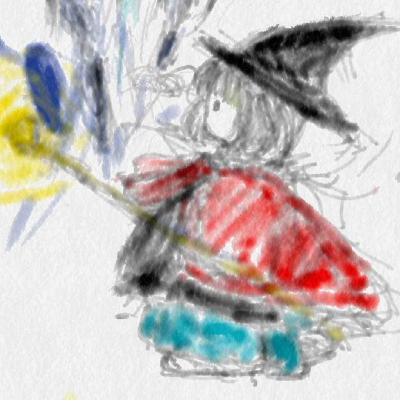
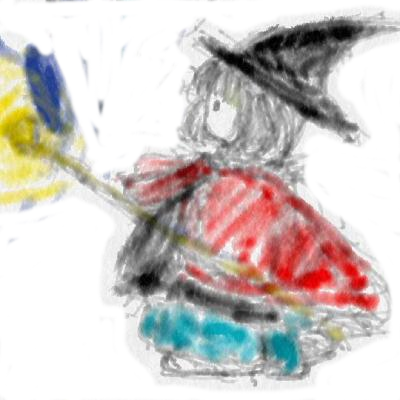
..

diff --git a/gl_texture/test.c b/gl_texture/test.c
@@ -54,6 +54,10 @@ void _onInit() {
   printf("## onInit\r\n");
 
   glEnable(GL_DEPTH_TEST);
+
+  //glEnable(GL_ALPHA_TEST);
+  glEnable(GL_BLEND);
+  glBlendFunc(GL_SRC_ALPHA, GL_ONE_MINUS_SRC_ALPHA);
   glViewport(0, 0, width, height);
   glClearColor(1.0, 0.7, 0.7, 1.0);//rgba
   glClear(GL_COLOR_BUFFER_BIT|GL_DEPTH_BUFFER_BIT);
@@ -66,7 +70,7 @@ void _onInit() {
     "uniform sampler2D texture;\n"
     "varying vec2 textureCoord;\n"
     "void main() {\n"
-    "  gl_FragColor = texture2D(texture, textureCoord);\n"
+    "  gl_FragColor = texture2D(texture, textureCoord)* vec4(1.0,1.0,1.0,1.0);\n"
 //    "  gl_FragColor = vec4(1.0,1.0,1.0,1.0);\n"
     "}\n");
   verShader = cglu_loadShader(GL_VERTEX_SHADER,
@@ -109,11 +113,21 @@ void _onDisplay() {
 
   // texture
   GLenum data_fmt;
-  Uint8 test = SDL_MapRGB(image->format, 0xAA,0xBB,0xCC)&0xFF;
-  if      (test==0xAA) data_fmt=         GL_RGB;
-  else if (test==0xCC) data_fmt=0x80E0;//GL_BGR;
-  else {
-      printf("Error: Loaded surface was neither RGB or BGR!\r\n"); return;
+  GLint nOfColors = image->format->BytesPerPixel;
+  if (nOfColors == 4) {
+    if (image->format->Rmask == 0x000000ff) {
+      data_fmt = GL_RGBA;
+    } else {
+      data_fmt = GL_BGRA;
+    }
+  } else if (nOfColors == 3) {
+    if (image->format->Rmask == 0x000000ff){
+      data_fmt = GL_RGBA;
+    } else {
+      data_fmt = GL_BGRA;
+    }
+  } else {
+    printf("warning: the image is not truecolor..  this will probably break\n");
   }
   glBindTexture(GL_TEXTURE_2D, textureBuffer);
 //  glTexParameteri(GL_TEXTURE_2D,GL_TEXTURE_MIN_FILTER,GL_LINEAR);
@@ -123,10 +137,10 @@ void _onDisplay() {
   glTexParameteri(GL_TEXTURE_2D, GL_TEXTURE_MIN_FILTER, GL_LINEAR);
   glTexParameteri(GL_TEXTURE_2D, GL_TEXTURE_MAG_FILTER, GL_LINEAR);
 
-  glTexImage2D(GL_TEXTURE_2D, 0, data_fmt,
+  glTexImage2D(GL_TEXTURE_2D, 0, data_fmt,//GL_RGBA,//data_fmt,
       image->w, image->h, 0, data_fmt, GL_UNSIGNED_BYTE, image->pixels);
   glGenerateMipmap(GL_TEXTURE_2D);
-  printf("%d %d %d\r\n", image->w, image->h, test);
+//  printf("%d %d %d\r\n", image->w, image->h, test);
   SDL_FreeSurface(image);
   //
   // shader
@@ -168,9 +182,8 @@ int main()
 
   //
   //
-
-_onInit();
-_onDisplay();
+  _onInit();
+  _onDisplay();
   //
   //
   SDL_RenderPresent(renderer);

diff --git a/image/test.c b/image/test.c
@@ -32,7 +32,7 @@ int main()
 
   SDL_CreateWindowAndRenderer(600, 400, 0, &window, &renderer);
 
-  SDL_SetRenderDrawColor(renderer, 255, 255, 255, 255);
+  SDL_SetRenderDrawColor(renderer, 255, 155, 155, 255);
   SDL_RenderClear(renderer);
 
   //
